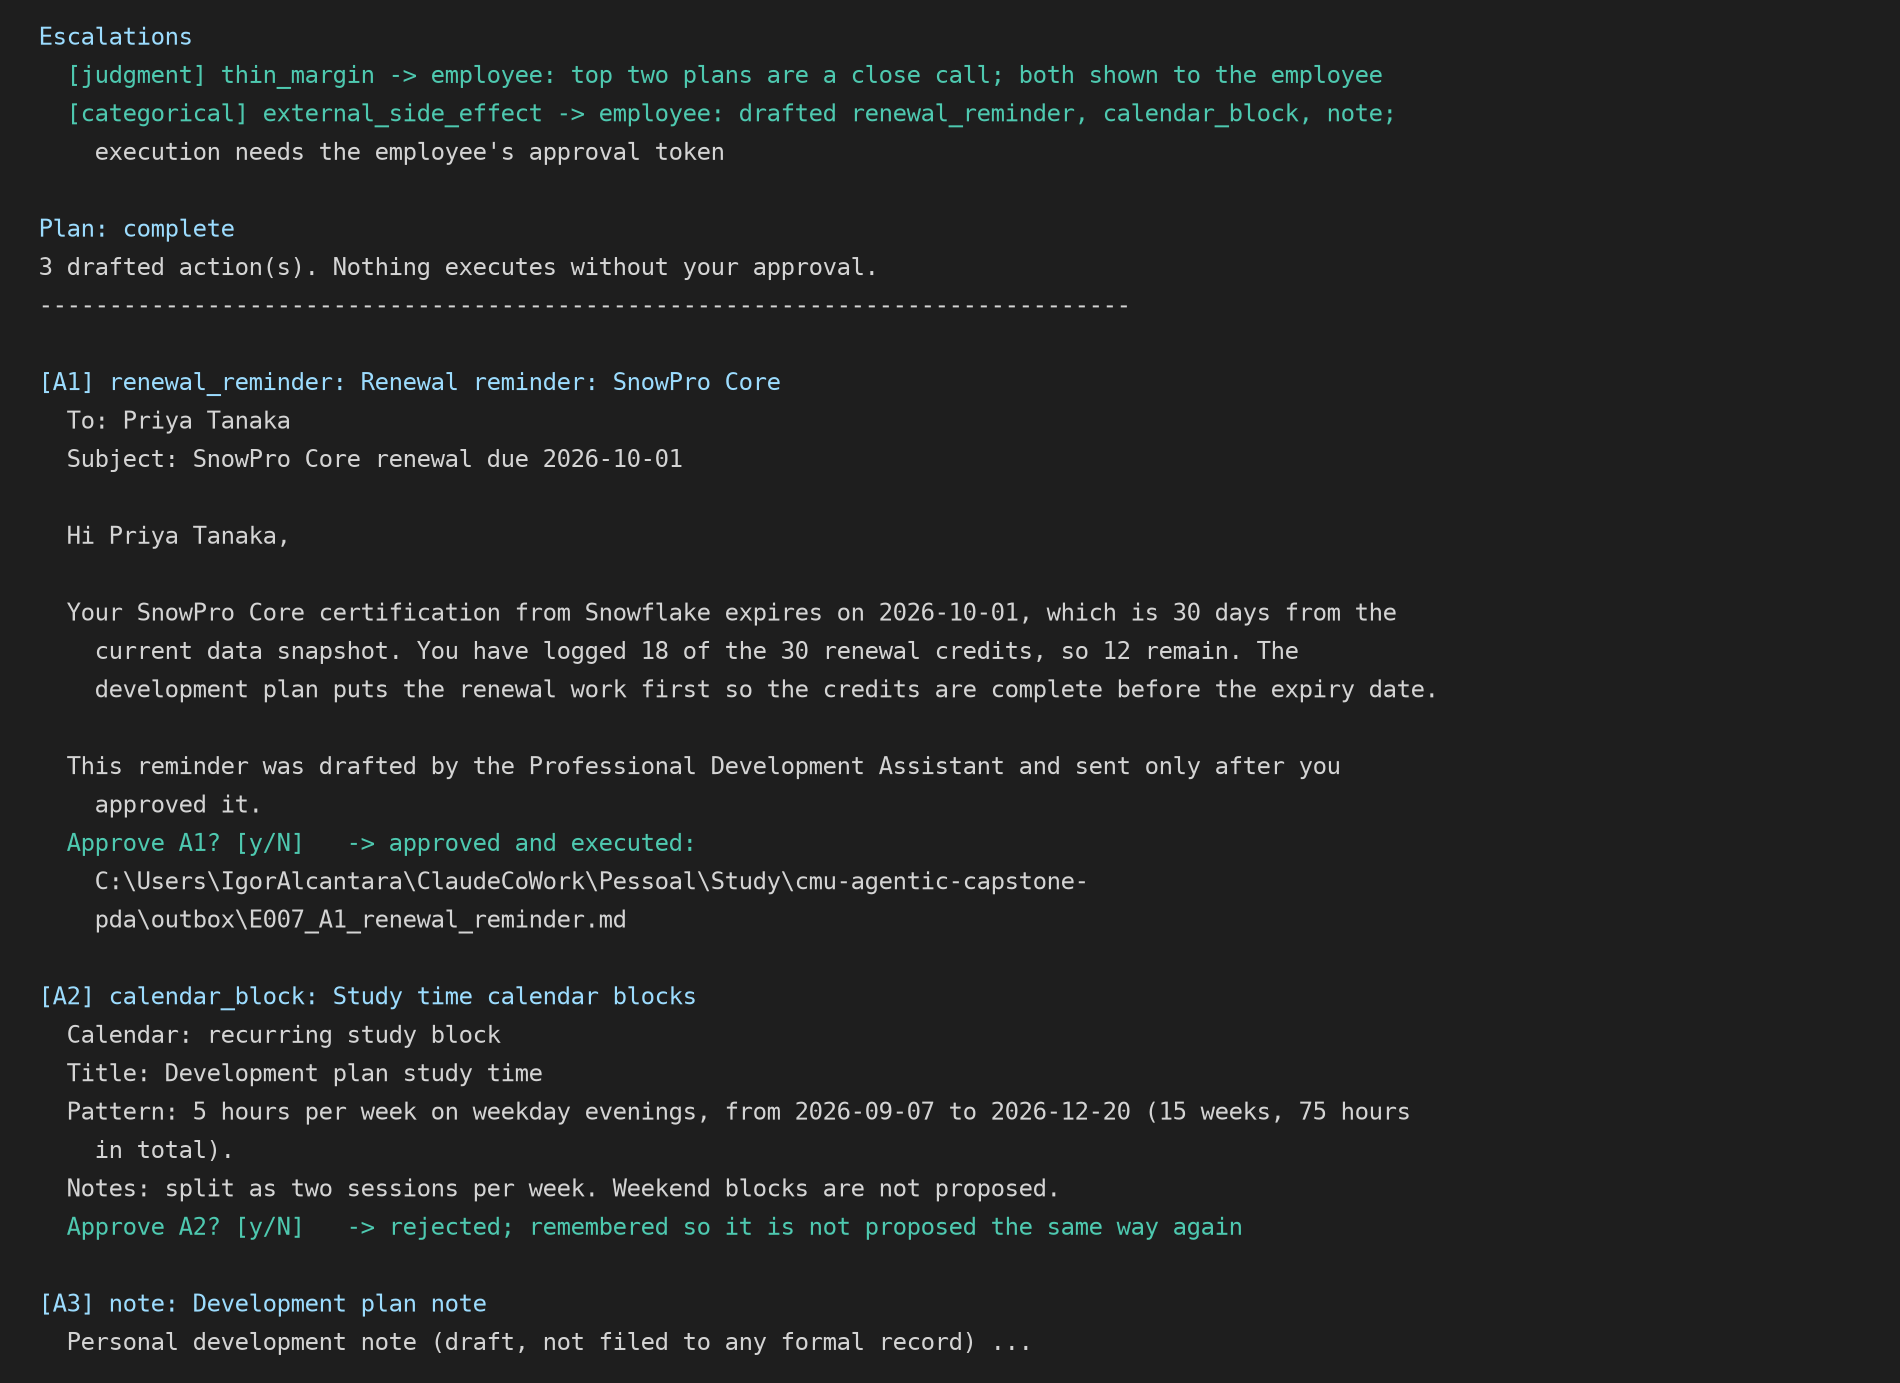
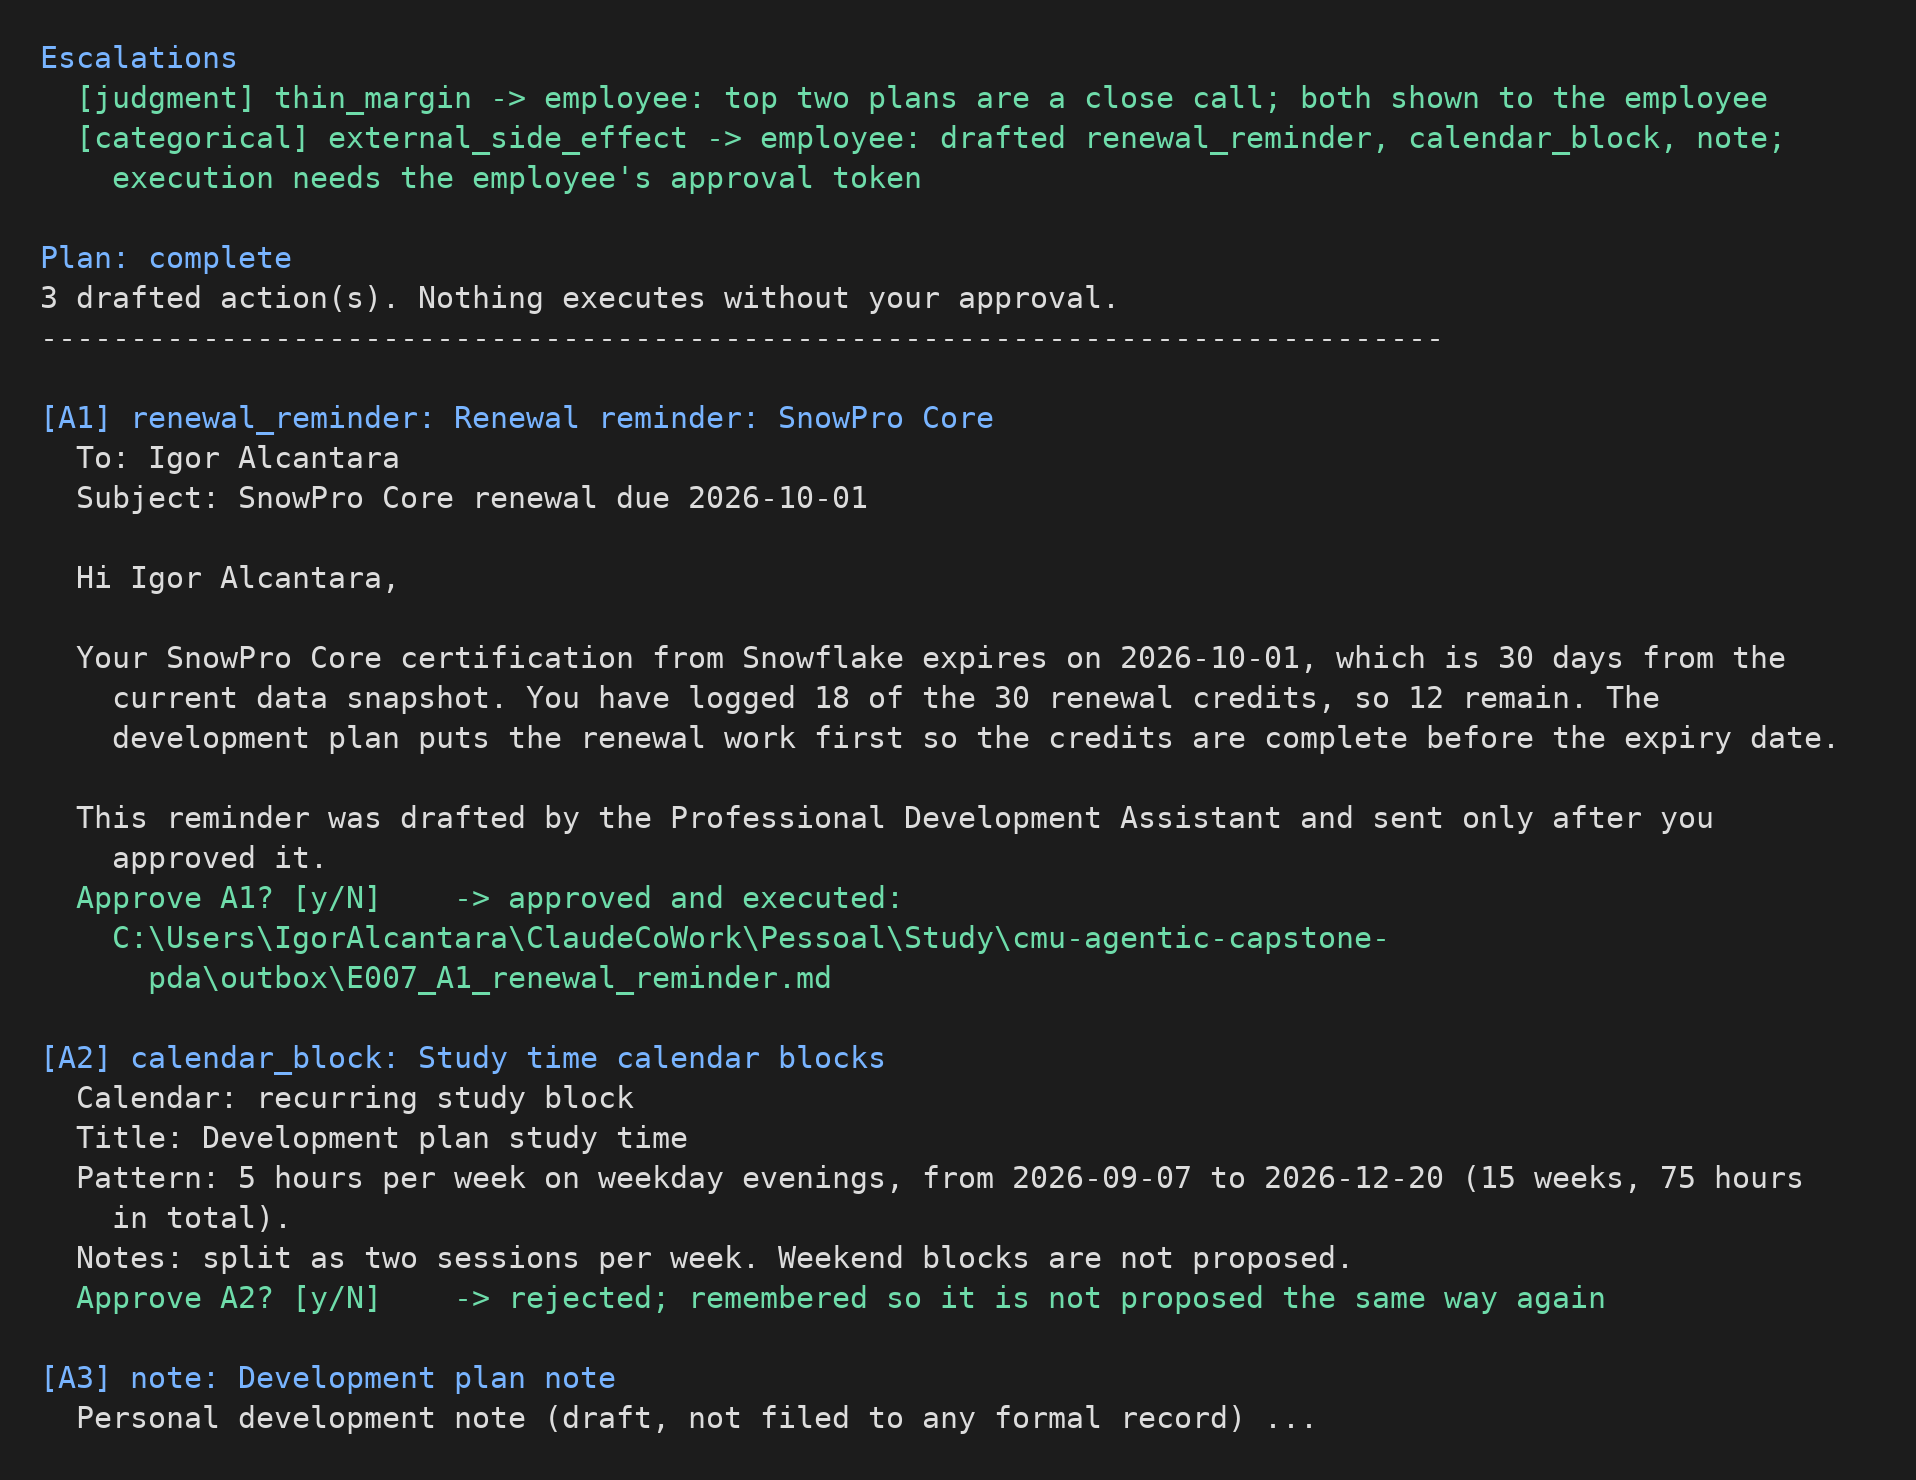
Name the demo employee after the author; add the confirm-gate screenshot renderer
E007 is now "Igor Alcantara" via an override in build_synthetic.py; the
profile itself is unchanged and still invented. Updated the groundedness
labels, the orchestrator test, the sample run and plan, the README data
statement, and the regenerated results (numbers unchanged). Added
docs/make_cli_screenshot.py, which renders docs/cli_confirm_gate.png from
the live mock demo output, and refreshed that image.

diff --git a/docs/make_cli_screenshot.py b/docs/make_cli_screenshot.py
@@ -1,0 +1,95 @@
+"""Render docs/cli_confirm_gate.png, the confirm-gate excerpt shown on presentation slide 11.
+
+    python docs/make_cli_screenshot.py
+
+Runs the E007 mock demo headlessly, takes the output from the Escalations block onward,
+and paints it as a dark terminal image. Approval lines are drawn as they appear in an
+interactive run with answers y, n, y. Needs Pillow; uses DejaVu Sans Mono from matplotlib
+if present, else Consolas.
+"""
+from __future__ import annotations
+
+import os
+import subprocess
+import sys
+import textwrap
+from pathlib import Path
+
+from PIL import Image, ImageDraw, ImageFont
+
+HERE = Path(__file__).resolve().parent
+ROOT = HERE.parent
+OUT = HERE / "cli_confirm_gate.png"
+
+BG, FG, BLUE, GREEN = (28, 28, 28), (220, 220, 220), (120, 180, 255), (110, 220, 170)
+WRAP, SIZE, LINE_H, PAD = 100, 30, 40, 40
+
+
+def _font() -> ImageFont.FreeTypeFont:
+    candidates = []
+    try:
+        import matplotlib  # optional
+        candidates.append(Path(matplotlib.__file__).parent / "mpl-data/fonts/ttf/DejaVuSansMono.ttf")
+    except ImportError:
+        pass
+    candidates.append(Path(os.environ.get("WINDIR", "C:/Windows")) / "Fonts/consola.ttf")
+    for c in candidates:
+        if c.exists():
+            return ImageFont.truetype(str(c), SIZE)
+    return ImageFont.load_default()
+
+
+def _demo_output() -> str:
+    cmd = [sys.executable, "-m", "pda.cli", "--employee", "E007", "--mock", "--auto-approve-none"]
+    return subprocess.run(cmd, cwd=ROOT, capture_output=True, text=True, check=True).stdout
+
+
+def _excerpt(out: str) -> list[tuple[str, tuple]]:
+    lines = out.splitlines()
+    start = lines.index("Escalations")
+    body = lines[start:]
+    # drop the plan detail between "Plan: complete" and the drafted-actions banner
+    plan_i = next(i for i, l in enumerate(body) if l.startswith("Plan: complete"))
+    banner_i = next(i for i, l in enumerate(body) if "drafted action(s)" in l)
+    body = body[:plan_i + 1] + body[banner_i:]
+    # stop after the first line of A3
+    a3 = next(i for i, l in enumerate(body) if l.startswith("[A3]"))
+    body = body[:a3 + 2]
+    body[-1] = body[-1].rstrip() + " ..."
+    answers = iter([("A1", "approved and executed:\n    " + str(ROOT / "outbox" / "E007_A1_renewal_reminder.md")),
+                    ("A2", "rejected; remembered so it is not proposed the same way again")])
+    styled: list[tuple[str, tuple]] = []
+    for l in body:
+        if l.strip() == "-> left as draft (--auto-approve-none)":
+            aid, text = next(answers)
+            styled.append((f"  Approve {aid}? [y/N]    -> {text}", GREEN))
+        elif l.startswith(("Escalations", "Plan:")) or l.startswith("[A"):
+            styled.append((l, BLUE))
+        elif l.startswith("  [") and "->" in l:
+            styled.append((l, GREEN))
+        elif l.startswith("-----"):
+            styled.append((l, FG))
+        else:
+            styled.append((l, FG))
+    return styled
+
+
+def render(styled: list[tuple[str, tuple]], out: Path) -> None:
+    font = _font()
+    rows: list[tuple[str, tuple]] = []
+    for text, color in styled:
+        for para in text.split("\n"):
+            indent = len(para) - len(para.lstrip(" "))
+            wrapped = textwrap.wrap(para, WRAP, subsequent_indent=" " * (indent + 2), drop_whitespace=False) or [""]
+            rows.extend((w, color) for w in wrapped)
+    width = int(font.getlength("M") * (WRAP + 2)) + 2 * PAD
+    img = Image.new("RGBA", (width, LINE_H * len(rows) + 2 * PAD), BG + (255,))
+    draw = ImageDraw.Draw(img)
+    for i, (text, color) in enumerate(rows):
+        draw.text((PAD, PAD + i * LINE_H), text, font=font, fill=color + (255,))
+    img.save(out)
+    print(f"wrote {out} ({img.width}x{img.height}, {len(rows)} lines)")
+
+
+if __name__ == "__main__":
+    render(_excerpt(_demo_output()), OUT)

diff --git a/tests/test_orchestrator_mock.py b/tests/test_orchestrator_mock.py
@@ -30,7 +30,7 @@ def test_e007_gathers_recovers_and_freezes(tmp_path):
     assert p.precondition.status == "ok" and 4 <= len(p.chunks) <= 8
     assert p.resources and all(r.verified for r in p.resources)
     assert p.memory.rejected and "Saturdays" in p.memory.rejected[0]
-    assert "Priya Tanaka" in p.profile_summary and "Apache Spark 2 -> 3" in p.profile_summary
+    assert "Igor Alcantara" in p.profile_summary and "Apache Spark 2 -> 3" in p.profile_summary
     assert result.packet_hash and result.status == "complete"
     assert result.escalations == []  # the retry succeeded, so nothing escalates on a clean E007 run
     assert (tmp_path / "E007.jsonl").read_text().count("react_step") == 6

diff --git a/data/build_synthetic.py b/data/build_synthetic.py
@@ -362,6 +362,8 @@ def build_db(rng: random.Random, db_path: Path) -> None:
     conn = sqlite3.connect(db_path)
     conn.executescript(SCHEMA)
     names = [f"{f} {l}" for f, l in zip(rng.sample(FIRST, 12), rng.sample(LAST, 12))]
+    # The demo protagonist carries the author's name over an invented profile.
+    names[[e[0] for e in EMPLOYEES].index("E007")] = "Igor Alcantara"
     for (eid, role, hours, request), name in zip(EMPLOYEES, names):
         conn.execute("INSERT INTO employees VALUES (?,?,?,?,?,?)",
                      (eid, name, role, DEPARTMENTS[role], hours, request))

diff --git a/examples/sample_plan_E007.md b/examples/sample_plan_E007.md
@@ -3,9 +3,9 @@
 ## Context packet (as rendered for the Planner and Critic)
 
 ```
-Employee: Priya Tanaka (E007), Data Engineer, Data Platforms.
+Employee: Igor Alcantara (E007), Data Engineer, Data Platforms.
 Data snapshot date: 2026-09-01. Weekly study limit: 5 hours.
-Profile summary: Priya Tanaka is a Data Engineer with a study budget of 5 hours. Against the role requirements the gaps are Apache Spark 2 -> 3; Snowflake 3 -> 4. SQL sits above the required level. Certifications: SnowPro Core expires 2026-10-01 (30 days), renewal credits 18/30; AWS Certified Cloud Practitioner expires 2027-11-15 (440 days), renewal credits 0/0.
+Profile summary: Igor Alcantara is a Data Engineer with a study budget of 5 hours. Against the role requirements the gaps are Apache Spark 2 -> 3; Snowflake 3 -> 4. SQL sits above the required level. Certifications: SnowPro Core expires 2026-10-01 (30 days), renewal credits 18/30; AWS Certified Cloud Practitioner expires 2027-11-15 (440 days), renewal credits 0/0.
 Skill gaps (current -> required):
   - Apache Spark: 2 -> 3
   - Snowflake: 3 -> 4
@@ -69,10 +69,10 @@ Full plan (strategy: deadline-first, variant: lab-first). Start on the snapshot 
 ### [A1] renewal_reminder: Renewal reminder: SnowPro Core
 
 ```
-To: Priya Tanaka
+To: Igor Alcantara
 Subject: SnowPro Core renewal due 2026-10-01
 
-Hi Priya Tanaka,
+Hi Igor Alcantara,
 
 Your SnowPro Core certification from Snowflake expires on 2026-10-01, which is 30 days from the current data snapshot. You have logged 18 of the 30 renewal credits, so 12 remain. The development plan puts the renewal work first so the credits are complete before the expiry date.
 
@@ -92,7 +92,7 @@ Notes: split as two sessions per week. Weekend blocks are not proposed.
 
 ```
 Personal development note (draft, not filed to any formal record)
-Employee: Priya Tanaka
+Employee: Igor Alcantara
 Snapshot: 2026-09-01
 
 Chosen plan:

diff --git a/README.md b/README.md
@@ -120,7 +120,7 @@ docs/                    the two figures and the script that draws them
 
 ## Data statement
 
-Everything under `data/` is synthetic and regenerated by `data/build_synthetic.py --seed 42`. Employee names are invented; no IPC Global employee data, document, or resource appears. The role documents and catalog were written for this build. Five catalog entries carry prompt-injection text on purpose, and one employee has no role document and another has two conflicting ones, so that the fallbacks and escalations can be demonstrated rather than described.
+Everything under `data/` is synthetic and regenerated by `data/build_synthetic.py --seed 42`. Employee names are invented, except that the demo employee E007 carries the author's own name over an invented profile; no IPC Global employee data, document, or resource appears. The role documents and catalog were written for this build. Five catalog entries carry prompt-injection text on purpose, and one employee has no role document and another has two conflicting ones, so that the fallbacks and escalations can be demonstrated rather than described.
 
 ## Limitations
 

diff --git a/eval/results/results.md b/eval/results/results.md
@@ -1,6 +1,6 @@
 # Evaluation results (mock mode)
 
-Generated 2026-09-01.
+Generated 2026-09-03.
 
 | Metric | Result |
 |---|---|
@@ -26,5 +26,5 @@ Generated 2026-09-01.
 - Escalation: unnecessary escalations were ['ESC-15']; accepted false positives by design: ['ESC-15'].
 - Critic: mock-mode Critic is a keyword stand-in; its rankings here are not meaningful. Run with --real. Human labels present on 0 of 10 pairs.
 - Groundedness disagreements: none; ungrounded atoms: none.
-- Operations: mean latency 0.039 s, mean tool calls 8.0, escalations by reason {'conflicting_role_docs': 1, 'external_side_effect': 12, 'missing_role_doc': 1, 'sensitive_topic': 2, 'thin_margin': 9}. Plans approved unedited: not measured: requires human approval sessions.
+- Operations: mean latency 0.034 s, mean tool calls 8.0, escalations by reason {'conflicting_role_docs': 1, 'external_side_effect': 12, 'missing_role_doc': 1, 'sensitive_topic': 2, 'thin_margin': 9}. Plans approved unedited: not measured: requires human approval sessions.
 - Scale: a synthetic 12-employee corpus measures mechanism coverage, not field performance.

diff --git a/examples/sample_run_E007.md b/examples/sample_run_E007.md
@@ -32,7 +32,7 @@ Rendered from the JSONL run log. Every observation is a typed summary; raw docum
 
 - Thought: Every gathering step has reported; seal the packet before synthesis.
 - Action: `freeze_packet`
-- Observation: packet frozen (hash 20d4a15c34382792); 2 gaps, 7 passages, 8 resources, 0 escalation(s) so far
+- Observation: packet frozen (hash 71353320da6eab06); 2 gaps, 7 passages, 8 resources, 0 escalation(s) so far
 
 **Step 6**
 
@@ -73,4 +73,4 @@ Rejected candidates and why:
 
 ## Budget
 
-`{'tool_calls': 8, 'tokens': 24465, 'elapsed_seconds': 0.03}`
+`{'tool_calls': 8, 'tokens': 24474, 'elapsed_seconds': 0.03}`
